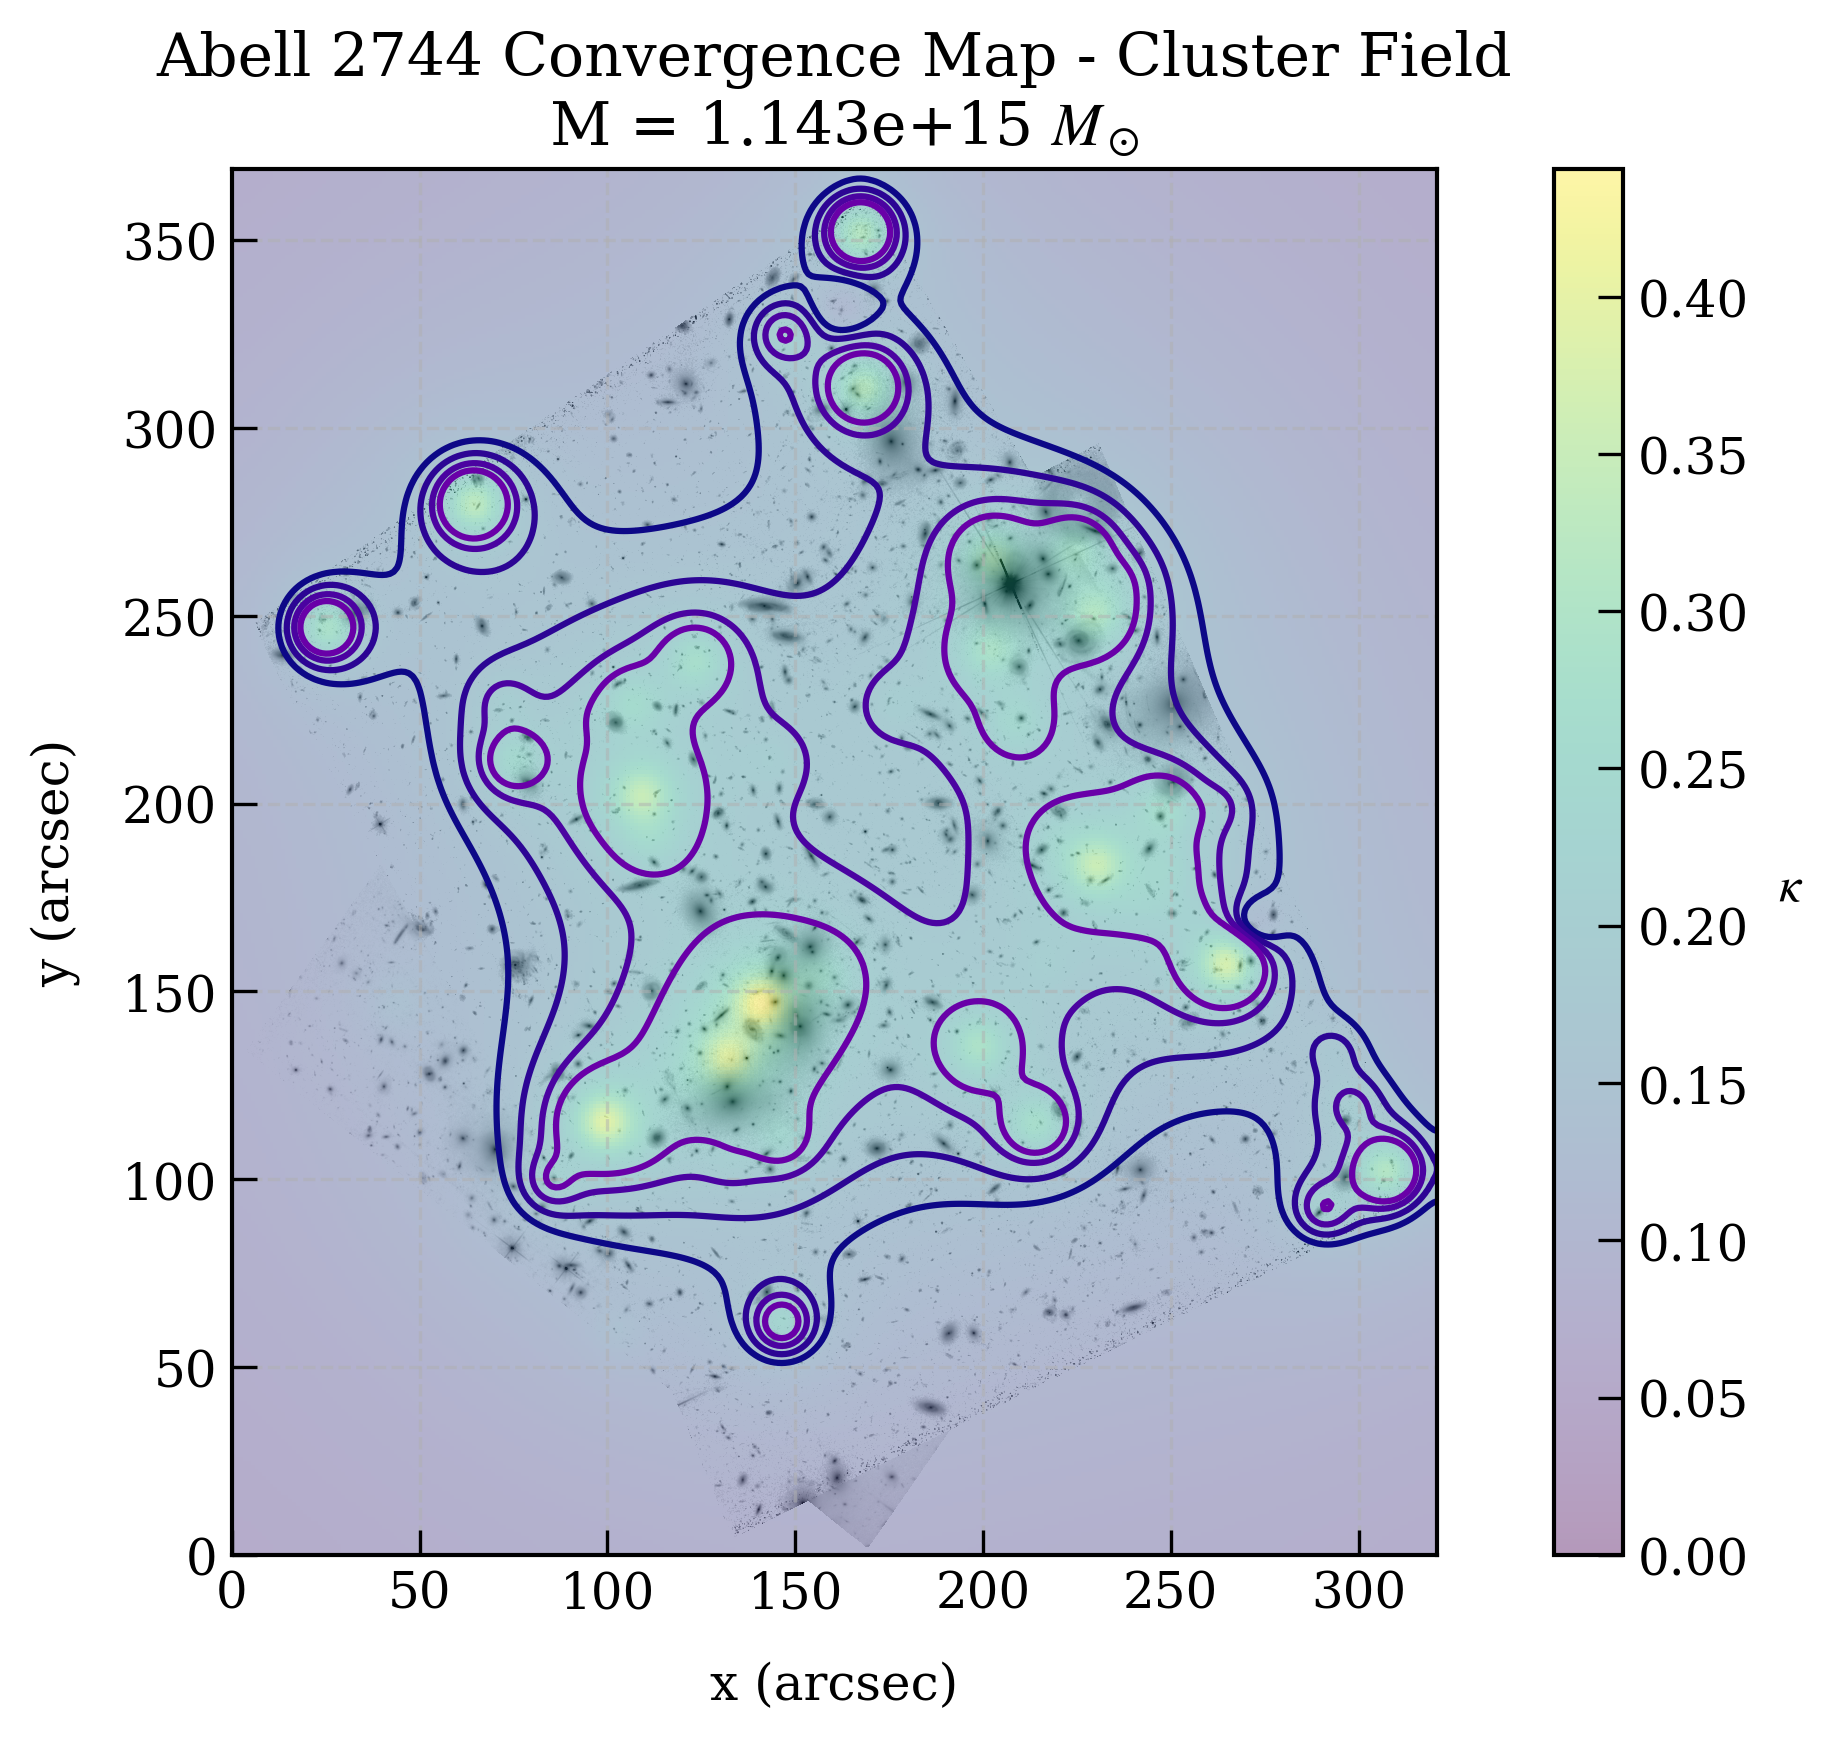
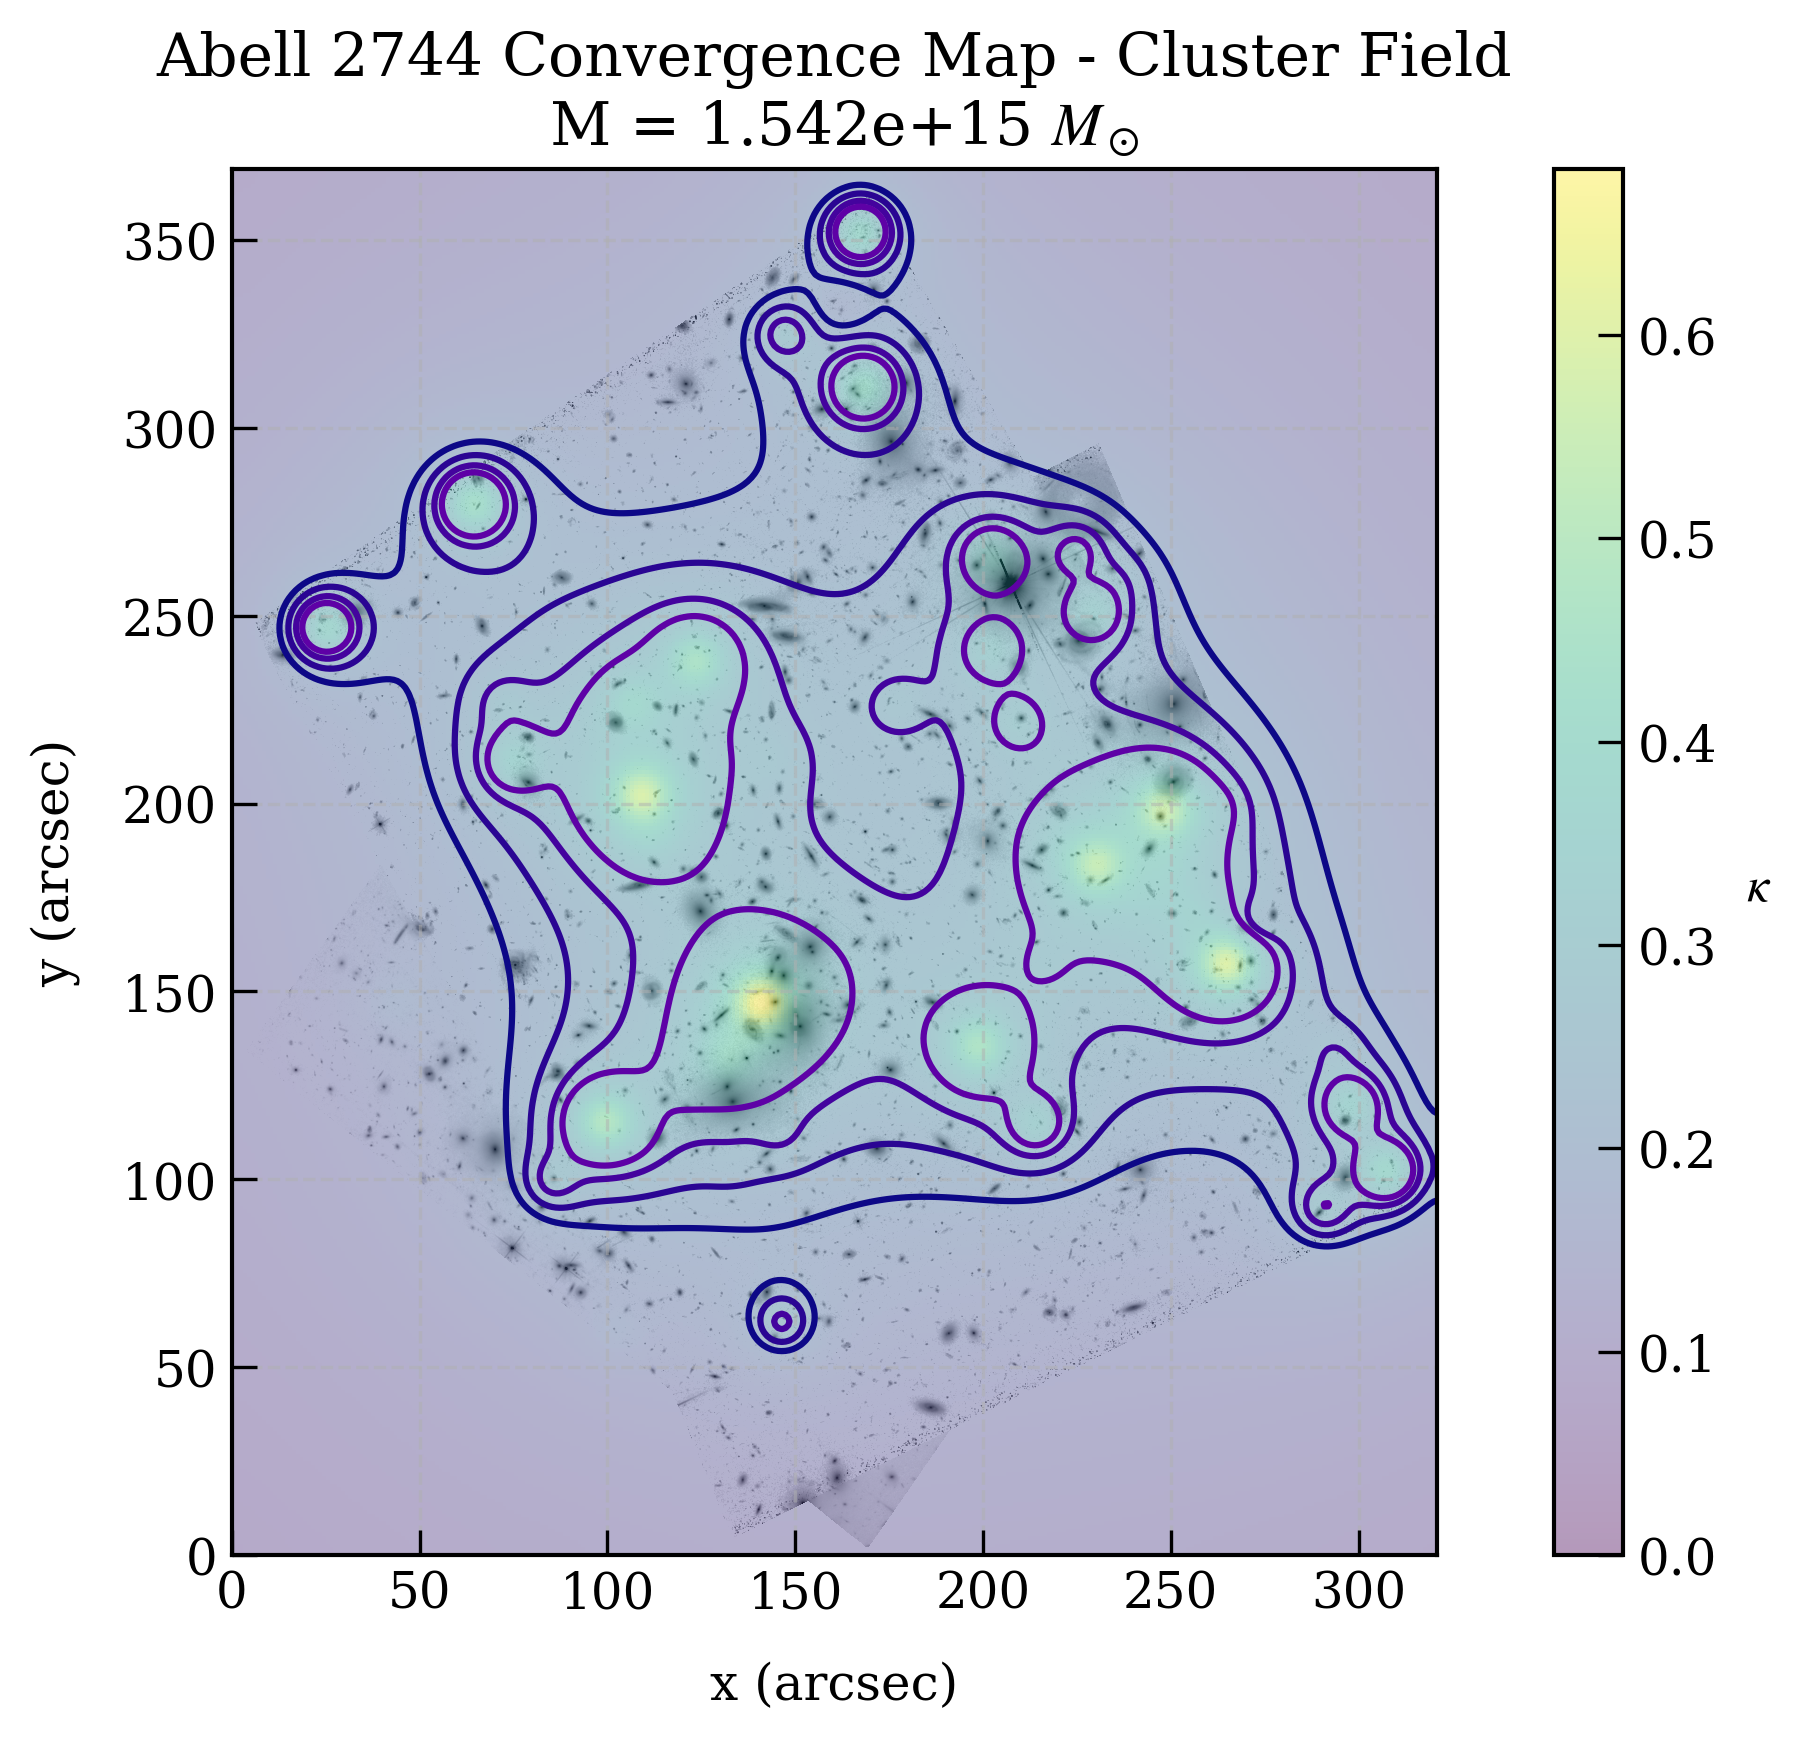
Correct error in noise model

diff --git a/data_handler.py b/data_handler.py
@@ -334,10 +334,8 @@ def plot_er_dist(merge_radius=1):
 
 
 if __name__ == '__main__':
-    reconstruct_a2744(field='parallel', randomize=False, full_reconstruction=True, use_shear=True, use_flexion=True)
+    # reconstruct_a2744(field='parallel', randomize=False, full_reconstruction=True, use_shear=True, use_flexion=True)
     reconstruct_a2744(field='cluster', randomize=False, full_reconstruction=True, use_shear=True, use_flexion=True)
-
-    process_kappa_contours()
 
     raise ValueError('Stop here')
     fits_file_path = 'Data/color_hlsp_frontier_hst_acs-30mas_abell2744_f814w_v1.0-epoch2_f606w_v1.0_f435w_v1.0_drz_sci.fits'

diff --git a/pipeline.py b/pipeline.py
@@ -403,7 +403,7 @@ def fit_lensing_field(sources, xmax, flags = False, use_shear=True, use_flexion=
     # Perform a final local minimization on the remaining lenses
     # NOTE - if the number of lenses is too large, this step can take a long time
     # Right now, skip this step if there are more than 150 lenses
-    if len(lenses.x) < 150:
+    if len(lenses.x) < 100:
         lenses.full_minimization(sources, use_shear, use_flexion)
         reducedchi2 = lenses.update_chi2_values(sources, use_shear, use_flexion)
         print_step_info(flags, "After Final Minimization:", lenses, reducedchi2)
